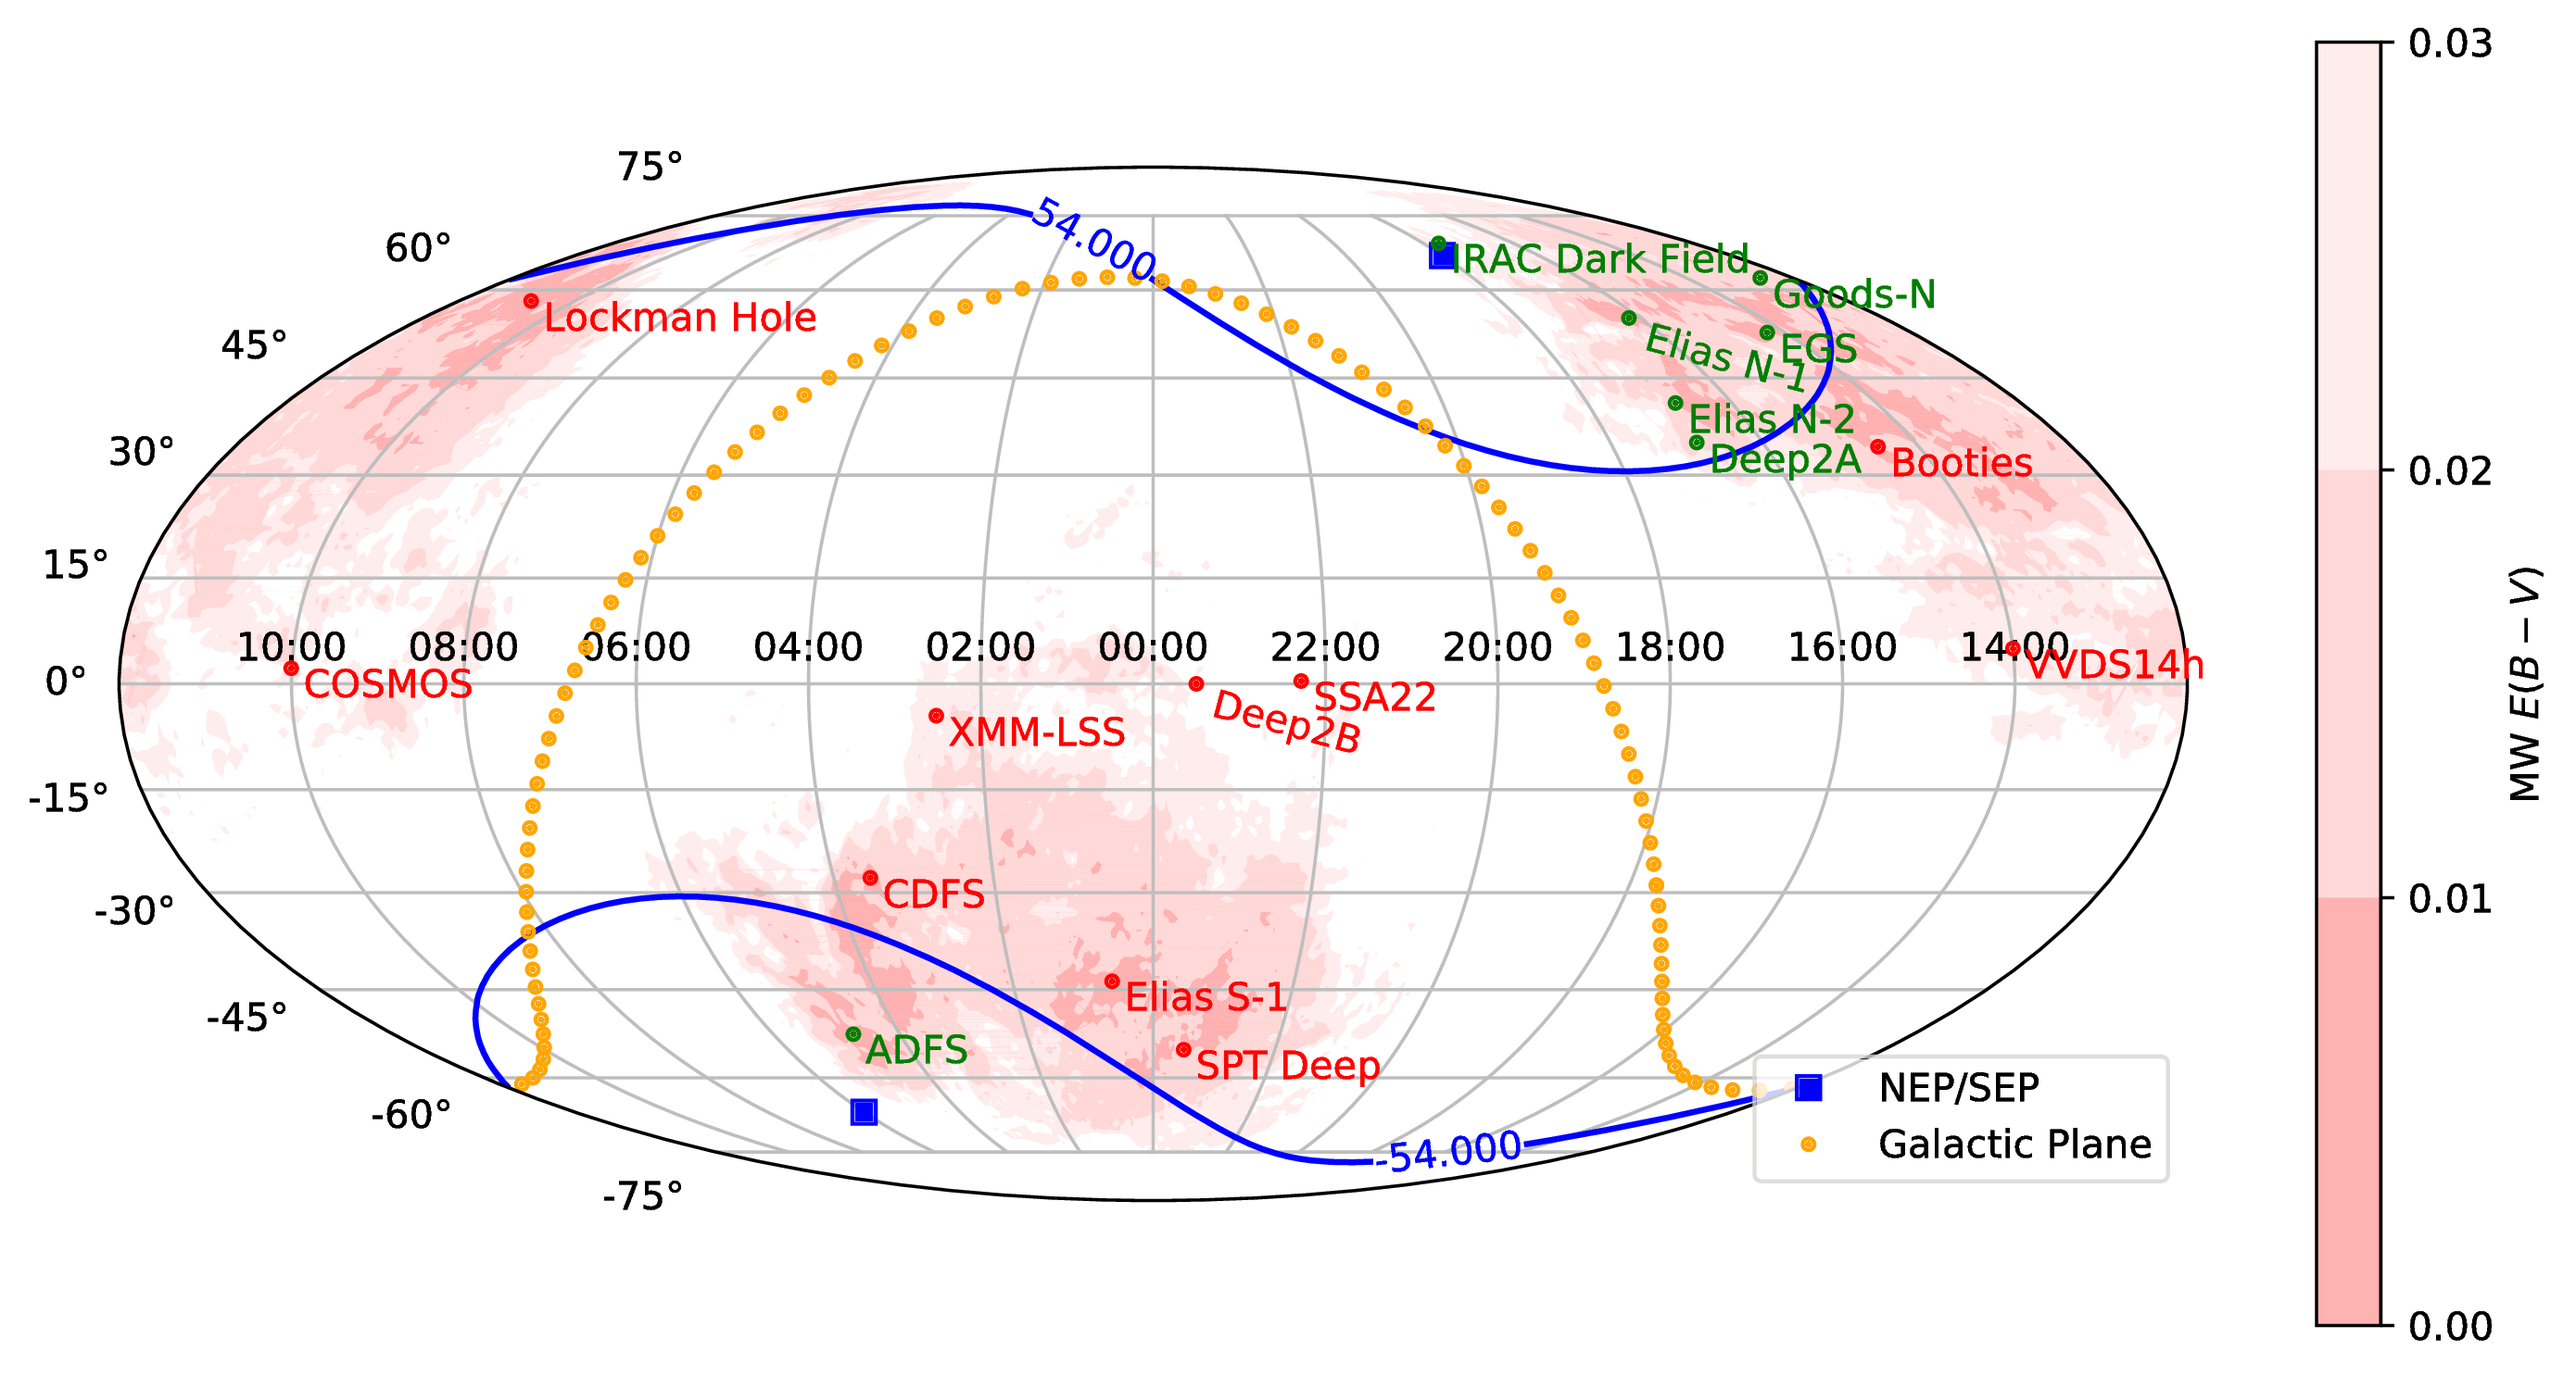
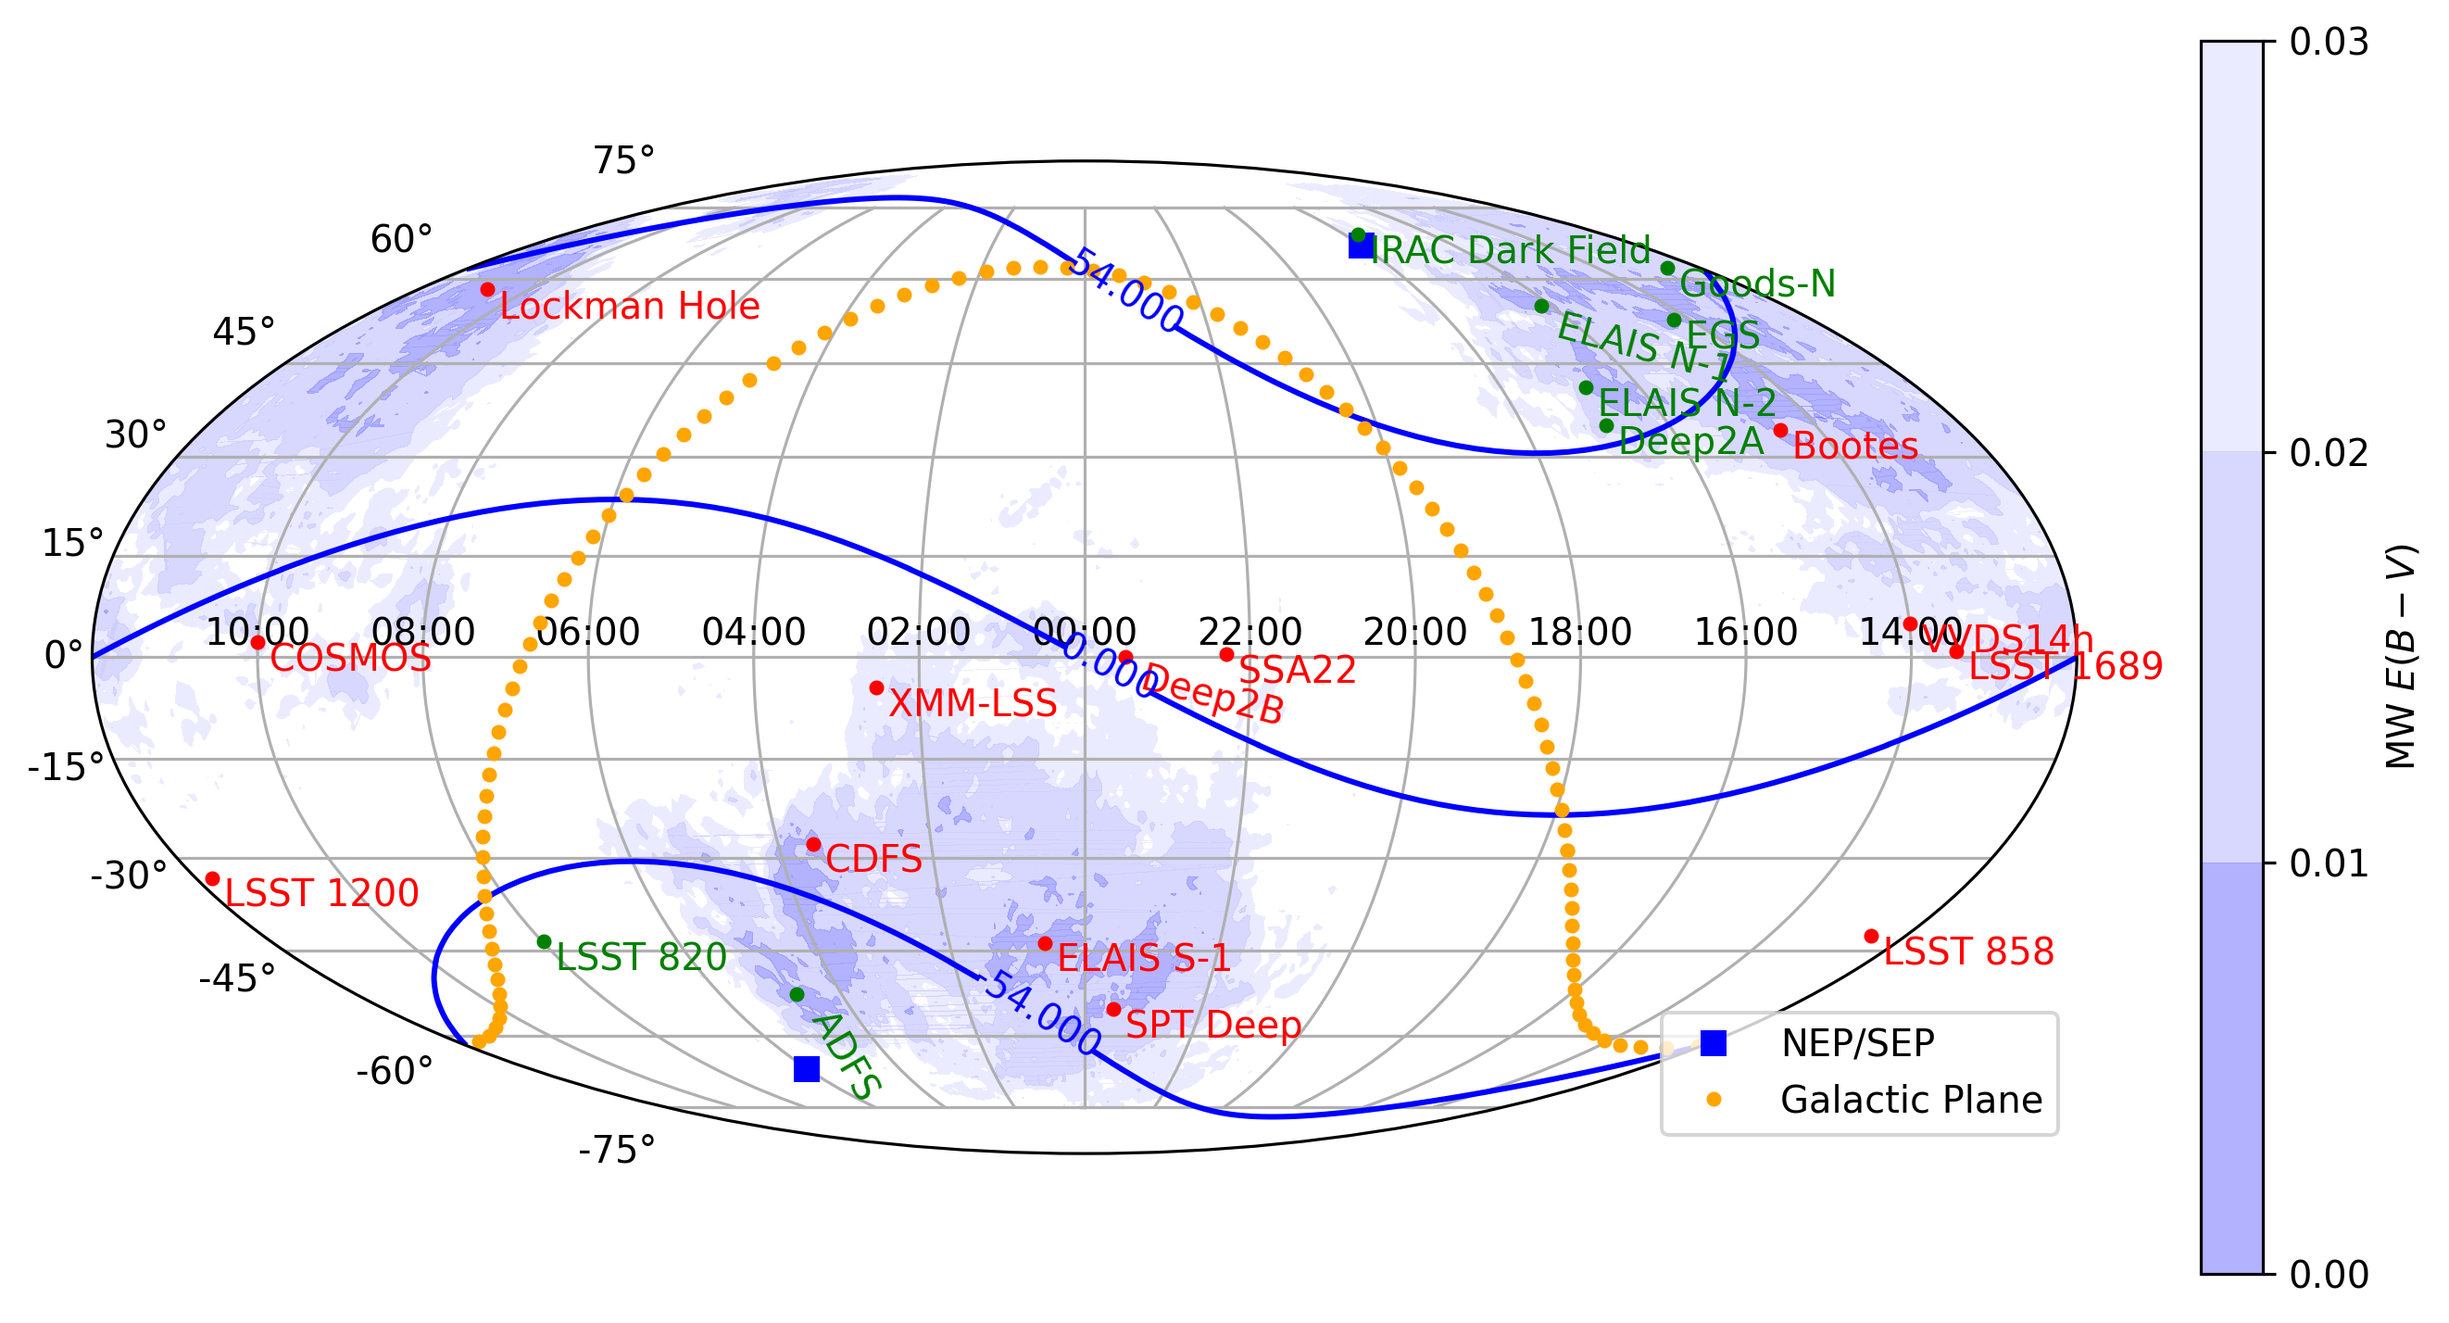
updates?

diff --git a/simple_plot.py b/simple_plot.py
@@ -1,11 +1,15 @@
 from numpy import * # Yup
+import numpy as np
+from matplotlib import use
+use("PDF")
 import matplotlib.pyplot as plt
 import ephem
 import sfdmap
 from astropy.io import ascii
+import sys
 
 
-def add_point(RA, Dec, flipRA = 1, color = 'b', txtlabel = None, symb = '.', label = ""):
+def add_point(RA, Dec, flipRA = 1, color = 'b', txtlabel = None, symb = '.', label = "", txtang = 0, deg2 = 0):
     assert abs(RA) <= 2.*pi
     assert abs(Dec) <= pi
 
@@ -14,15 +18,25 @@ def add_point(RA, Dec, flipRA = 1, color = 'b', txtlabel = None, symb = '.', lab
     else:
         plotRA = RA - 2.*pi
 
-    plt.plot(plotRA*(1. - 2*flipRA), Dec, symb, color = color, label = label)
+    if deg2 == 0:
+        plt.plot(plotRA*(1. - 2*flipRA), Dec, symb, color = color, label = label)
+        plotr = 0
+    else:
+        assert abs(Dec) < 0.9*pi
+        
+        plottheta = linspace(0., 2.*pi, 40)
+        plotr = sqrt(deg2/pi)*(pi/180.)
+
+        plt.plot(plotRA*(1. - 2*flipRA) + plotr*cos(plottheta)/cos(Dec), Dec + plotr*sin(plottheta), color = color)
+
     if txtlabel != None:
-        plt.text(plotRA*(1. - 2*flipRA), Dec, " " + txtlabel, color = color, va = 'top')
+        plt.text(plotRA*(1. - 2*flipRA) + plotr, Dec, " " + txtlabel, color = color, va = 'top'*int(txtang <= 0)  + 'bottom'*int(txtang > 0), rotation = txtang)
 
 def rad_to_hours(val, flipRA = 1):
-    print val
+    print(val)
     degval = val*(1. - 2*flipRA)*(180./pi)
 
-    return "%02i:00" % (degval/15. % 24)
+    return "%02i:00" % around(degval/15. % 24)
 
 def add_bright_stars(threshold = -1):
     star_data = loadtxt("jcat_prime2p_brightest.txt")
@@ -31,7 +45,7 @@ def add_bright_stars(threshold = -1):
     
     for i in range(len(inds)):
         add_point(star_data[inds[i],0]/degrad, star_data[inds[i],1]/degrad, color = 'c', symb = '*', label = "Bright Star, $J < " + str(threshold) + "$" if i == 0 else "")
-        print "Bright star!", star_data[inds[i],0], star_data[inds[i],1]
+        print("Bright star!", star_data[inds[i],0], star_data[inds[i],1])
 
 def add_sfd():
     m = sfdmap.SFDMap("sfddata-master") # Must be installed separately
@@ -39,12 +53,17 @@ def add_sfd():
     x1d = linspace(-pi, pi, 400)
     y1d = linspace(-pi/2., pi/2, 200)
     xvals, yvals = meshgrid(x1d, y1d)
+
+    #xvals += random.normal(size = xvals.shape)*0.0001
+    #yvals += random.normal(size = xvals.shape)*0.0001
+
     zvals = xvals*0.
     for i in range(len(x1d)):
         for j in range(len(y1d)):
             zvals[j,i] = m.ebv(x1d[i]*degrad, y1d[j]*degrad)
 
-    CS = plt.contourf(-xvals, yvals, zvals, levels = [0, 0.01, 0.02, 0.03], colors = [(1, 0, 0), (1, 0.5, 0.5), (1, 0.75, 0.75), (1., 0.9, 0.9)], alpha = 0.3)
+    #CS = plt.contourf(-xvals, yvals, zvals, levels = [0.01, 0.02, 0.03, 100], colors = [(1, 0, 0), (1, 0.5, 0.5), (1, 0.75, 0.75), (1., 0.9, 0.9)][::-1], alpha = 0.3)
+    CS = plt.contourf(-xvals, yvals, zvals, levels = [0, 0.01, 0.02, 0.03], colors = [(0, 0, 1), (0.5, 0.5, 1), (0.75, 0.75, 1), (1, 1, 1)], alpha = 0.3)
     #plt.clabel(CS)
 
 def add_CVZ():
@@ -61,11 +80,16 @@ def add_CVZ():
             ec = ephem.Ecliptic(eq, epoch = 2000)
             
             zvals[j,i] = float(ec.lat)*degrad
-            print x1d[i]*degrad, y1d[j]*degrad, zvals[j,i]*degrad
+            print(x1d[i]*degrad, y1d[j]*degrad, zvals[j,i]*degrad)
 
 
-    CS = plt.contour(-xvals, yvals, zvals, levels = [-54, 54.], colors = 'b', linestyles = "solid")
+    CS = plt.contour(-xvals, yvals, zvals, levels = [-ecliptic_limit, 0, ecliptic_limit], colors = 'b', linestyles = "solid")
     plt.clabel(CS)
+
+def add_HLS():
+    RAs, Decs = loadtxt("hls_vertices.txt", unpack = True)
+    plt.plot(RAs*pi/180., Decs*pi/180., color = 'gray')
+    
 
 
 def add_EP():
@@ -84,22 +108,30 @@ def add_fields():
         eq = ephem.Equatorial(fields_to_plot["RA"][i]/degrad, fields_to_plot["Dec"][i]/degrad, epoch = 2000)
         ec = ephem.Ecliptic(eq, epoch = 2000)
         
-        if abs(float(ec.lat)*degrad) >= 54:
+        if abs(float(ec.lat)*degrad) >= ecliptic_limit:
             pltcolor = 'g'
         else:
             pltcolor = 'r'
         
-        add_point(fields_to_plot["RA"][i]/degrad, fields_to_plot["Dec"][i]/degrad, color = pltcolor, txtlabel = fields_to_plot["Field"][i])
+        add_point(fields_to_plot["RA"][i]/degrad, fields_to_plot["Dec"][i]/degrad, color = pltcolor, txtlabel = fields_to_plot["Field"][i],
+                  txtang = fields_to_plot["PlotAngle"][i], deg2 = fields_to_plot["Deg2"][i])
 
 
 def add_plane():
-    for longi in linspace(0, 360., 100.):
+    for longi in linspace(0, 360., 100):
         ga = ephem.Galactic(longi/degrad, 0./degrad, epoch = 2000)
         eq = ephem.Equatorial(ga, epoch = 2000)
         add_point(float(eq.ra), float(eq.dec), flipRA = 1, color = 'orange', label = "Galactic Plane" if (longi==0) else "")            
 
 
-fig = plt.figure(figsize=(12, 6))
+
+if len(sys.argv) == 1:
+    ecliptic_limit = 54
+else:
+    ecliptic_limit = float(sys.argv[1])
+        
+fig = plt.figure(figsize=(12, 6), dpi = 288)
+#fig = plt.figure(figsize=(18, 9), dpi = 288)
 ax = fig.add_subplot(111, projection="mollweide")
 ax.grid(True)
 
@@ -110,6 +142,7 @@ add_CVZ()
 add_sfd()
 add_EP()
 add_plane()
+#add_HLS()
 #add_bright_stars()
 add_fields()
 
@@ -117,5 +150,5 @@ plt.xticks(plt.xticks()[0], [rad_to_hours(val) for val in plt.xticks()[0]])
 
 plt.legend(loc = "lower right")
 plt.colorbar(label = "MW $E(B-V)$")
-plt.savefig("field_considerations.pdf", bbox_inches = "tight")
+plt.savefig("field_considerations_%i.png" % int(np.around(ecliptic_limit)), bbox_inches = "tight", dpi = 288)
 plt.close()
